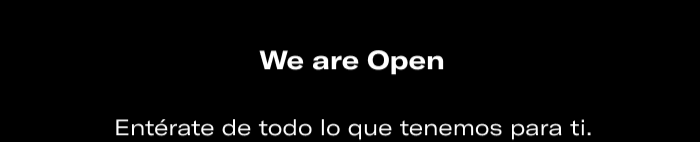
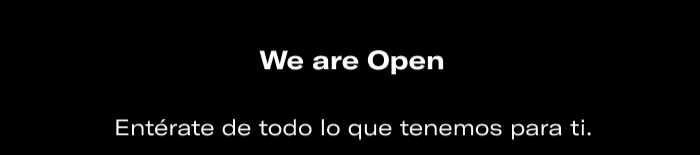
u

Changed region(s): [[0.15, 0.7606, 0.87, 0.9577], [0.36, 0.3099, 0.66, 0.5352]]

diff --git a/OB_MX_v2.html b/OB_MX_v2.html
@@ -581,7 +581,7 @@
             <![endif]-->
       <table border="0" cellpadding="0" cellspacing="0" width="100%" class="templateColumns darkmodeBackground"
         bgcolor="#ffffff"
-        style="-webkit-text-size-adjust:100%;-ms-text-size-adjust:100%;mso-table-lspace:0pt;mso-table-rspace:0pt;mso-default-height:100%;mso-default-width:100%;mso-space-above:no;mso-space-below:no;margin:0;padding:0;width:100%;max-width:600px;border-collapse:collapse !important;border-spacing:0 !important;table-layout:fixed !important;padding:0 !important;margin: 0; padding: 0; max-width: 600px;">
+        style="-webkit-text-size-adjust:100%;-ms-text-size-adjust:100%;mso-table-lspace:0pt;mso-table-rspace:0pt;mso-default-height:100%;mso-default-width:100%;mso-space-above:no;mso-space-below:no;margin:0;padding:0;width:100%;max-width:600px;border-collapse:collapse !important;border-spacing:0 !important;table-layout:fixed !important;padding:0 !important;margin: 0 0 -5px 0; padding: 0; max-width: 600px;">
         <tr>
           <td
             style="-webkit-text-size-adjust:100%;-ms-text-size-adjust:100%;mso-table-lspace:0pt;mso-table-rspace:0pt;mso-default-height:100%;mso-default-width:100%;mso-space-above:no;mso-space-below:no;">
@@ -607,7 +607,7 @@
         style="-webkit-text-size-adjust:100%;-ms-text-size-adjust:100%;mso-table-lspace:0pt;mso-table-rspace:0pt;mso-default-height:100%;mso-default-width:100%;mso-space-above:no;mso-space-below:no;margin:0;padding:0;width:100%;max-width:600px;border-collapse:collapse !important;border-spacing:0 !important;table-layout:fixed !important;padding:0 !important;table-layout:auto !important;margin: 0; padding: 0; max-width: 600px; background-image: linear-gradient(#000000, #000000); background-color: #000000; background-image:url('https://openbank-newsletter-q2k5.vercel.app/img/rrss/footer-bg.png');background-repeat: repeat;">
         <tr>
           <td colspan="3" align="center" class="footer-title"
-            style="-webkit-text-size-adjust:100%;-ms-text-size-adjust:100%;mso-table-lspace:0pt;mso-table-rspace:0pt;mso-default-height:100%;mso-default-width:100%;mso-space-above:no;mso-space-below:no;font-size:20px;line-height:27px;-webkit-text-size-adjust:none;font-family: 'GT-America-Extended', sans-serif; font-size: 20px; line-height: 27px; -webkit-text-size-adjust: none; color: #aaaaaa; padding: 25px 20px 30px; font-weight: bold;">
+            style="-webkit-text-size-adjust:100%;-ms-text-size-adjust:100%;mso-table-lspace:0pt;mso-table-rspace:0pt;mso-default-height:100%;mso-default-width:100%;mso-space-above:no;mso-space-below:no;font-size:20px;line-height:27px;-webkit-text-size-adjust:none;font-family: 'GT-America-Extended', sans-serif; font-size: 20px; line-height: 27px; -webkit-text-size-adjust: none; color: #aaaaaa; padding: 0; font-weight: bold;">
             <img src="https://openbank-newsletter-q2k5.vercel.app/img/rrss/footer-weareopen.png" width="100%" border="0" alt="We are Open" class="-ms-interpolation-mode:bicubic;box-sizing:border-box;display:block;border:0;">
           </td>
         </tr>
@@ -692,12 +692,8 @@
         <tr>
           <td colspan="3"
             style="-webkit-text-size-adjust:100%;-ms-text-size-adjust:100%;mso-table-lspace:0pt;mso-table-rspace:0pt;mso-default-height:100%;mso-default-width:100%;mso-space-above:no;mso-space-below:no;margin: 0; padding: 20px; color:#aaaaaa; font-family: 'GT-America-Extended', sans-serif; font-size: 12px; line-height: 18px;">
-            
-            Si no ves correctamente este email, haz clic <a href="<%@ include view='MirrorPageUrl' %>" _tagid=""
-              _label="Mirror Page" _type="mirrorPage" target="_blank"
-              style="-webkit-text-size-adjust:100%;-ms-text-size-adjust:100%;font-weight: bold; color: #aaaaaa; text-decoration: none;">aquí</a>.
-
-            <br><br>Openbank México, S.A. Institución de Banca Múltiple, Grupo Financiero Santander México (“Openbank”) es un banco en proceso de obtener la autorización por parte de las autoridades financieras para iniciar operaciones con el público. Usaremos tu información con cuidado y sólo para los fines que nos autorices. Consulta nuestro <a href="https://www.openbank.mx/aviso-privacidad" style="-webkit-text-size-adjust:100%;-ms-text-size-adjust:100%;font-weight: bold; color: #aaaaaa; text-decoration:none;">Aviso de privacidad</a>.
+            <img src="https://openbank-newsletter-q2k5.vercel.app/img/rrss/footer-disclaimer.png" alt=""
+                  style="-ms-interpolation-mode:bicubic;box-sizing:border-box;display:block;border:0;height:40px;width:auto;margin:0;padding:0;box-sizing: border-box; display: block; border: 0; height: 40px; width: auto; margin: 0; padding: 0;">
           </td>
         </tr>
         <tr>
